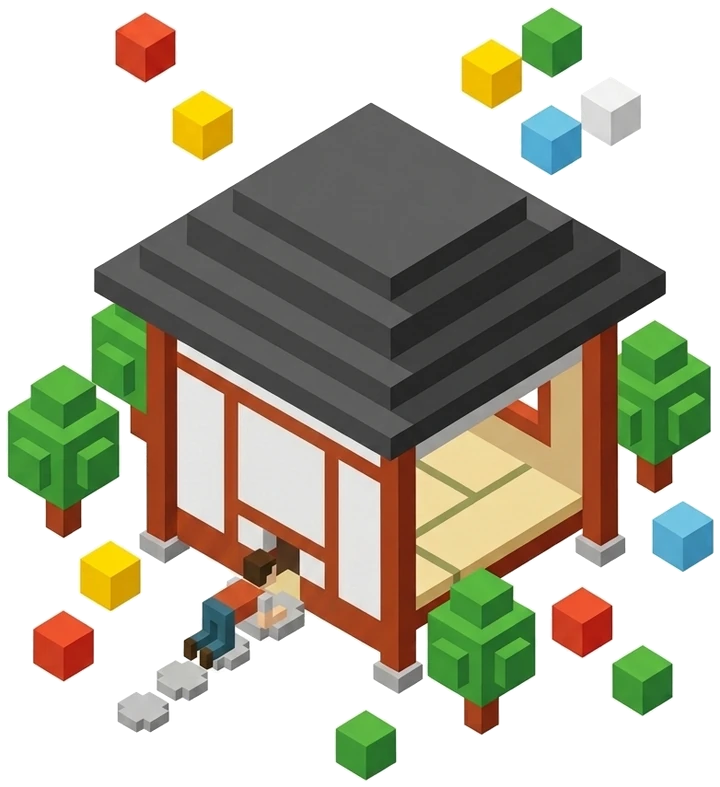
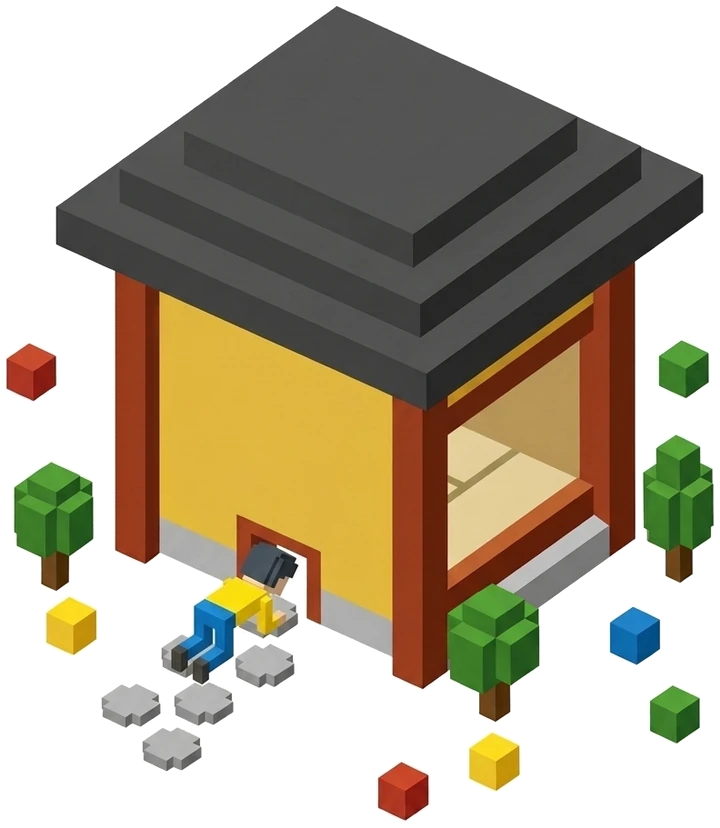
CASE 01 をもっと深い角度・もっと厚い塊にする
見下ろしを約65〜70度へ深め、遠近を入れて奥行きを出した。壁・屋根・柱・木の
厚みを増やし、立方体が上面と側面二つを見せるようにして量感を強めた。

diff --git a/src/webgl/plateArtVersion.ts b/src/webgl/plateArtVersion.ts
@@ -1,5 +1,5 @@
 // tools/shrink-plate.py が書き出す。直接いじらない。
 // 絵の中身から作った版番号。URLに付けて、古い絵が居座るのを防ぐ。
 export const PLATE_ART_VERSION: Record<string, string> = {
-  "01": "0fdccc4406"
+  "01": "2b5078643c"
 } as const;
